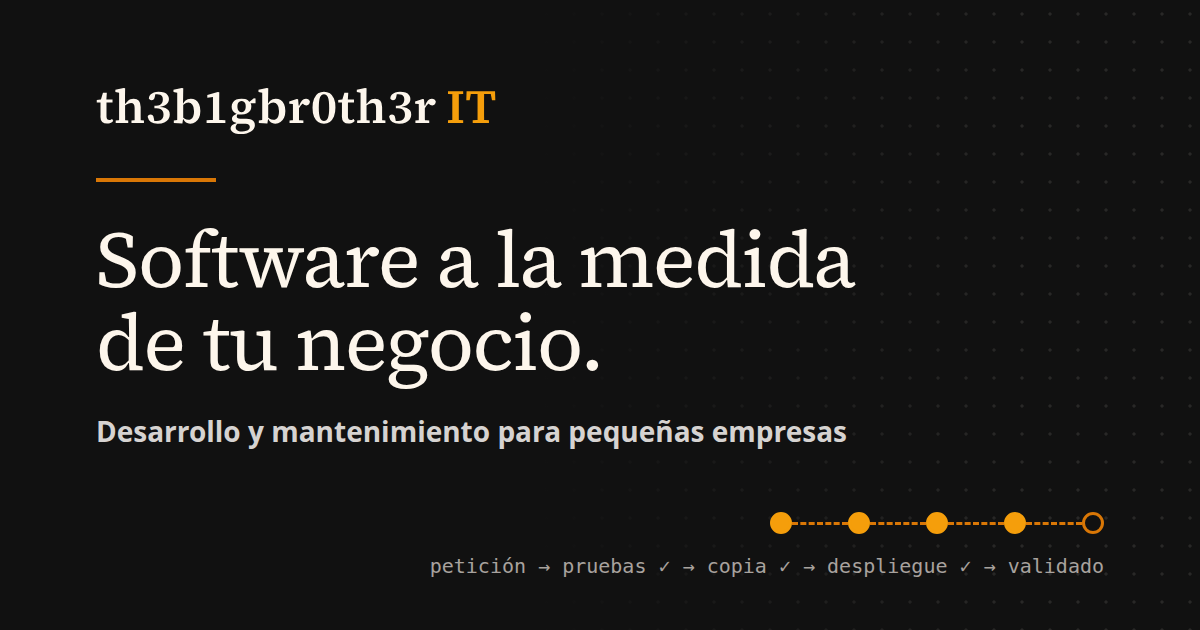
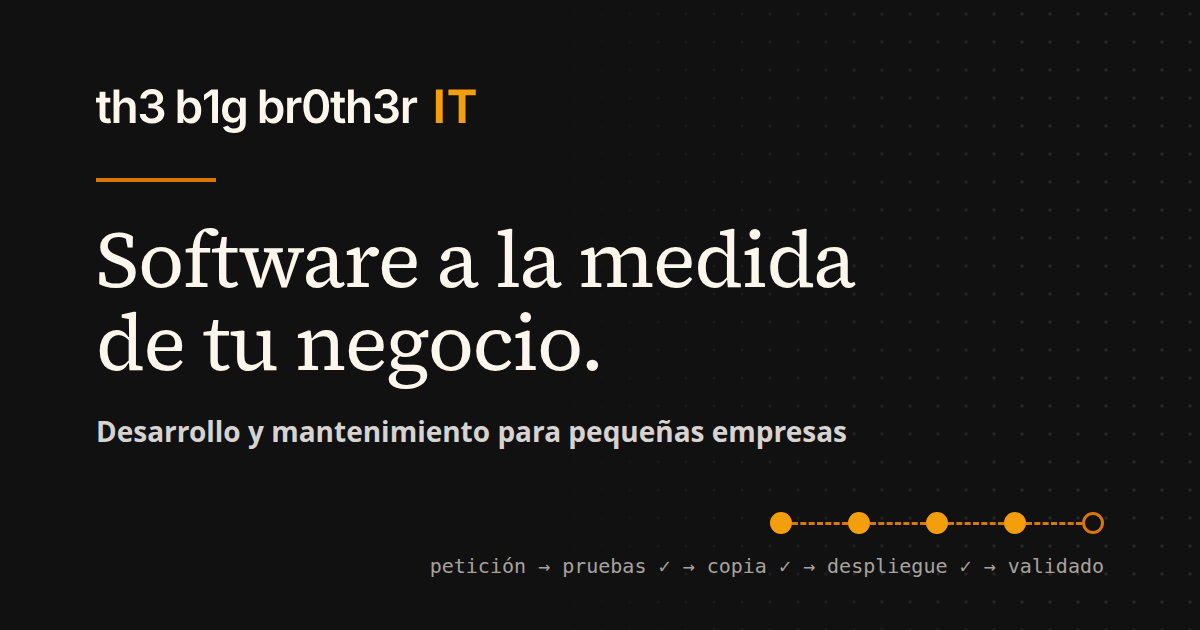
feat(web): wordmark Inter y tipografia (WEB-015a, opcion B de mkt)

Changed region(s): [[0.0617, 0.1206, 0.4317, 0.2111]]

diff --git a/logotipo.py b/logotipo.py
@@ -1,28 +1,26 @@
 """Logotipo «th3b1gbr0th3r IT» en trazos SVG (idéntico en todos los sistemas, sin depender de fuentes instaladas).
 
-Los trazos se generaron una vez con fontTools a partir de Source Serif 4 Semibold (SIL Open Font License 1.1,
-Adobe), que tiene cifras alineadas: el 3, el 1 y el 0 miden lo mismo que las mayúsculas.
-construir_web.py solo importa TRAZOS, ANCHO y ALTO (biblioteca estándar).
-
-Regenerar (solo si cambia el texto; necesita fontTools y brotli, fuera del pipeline):
-    npm pack @fontsource/source-serif-4   # en una carpeta temporal
-    python3 logotipo.py <ruta>/files/source-serif-4-latin-600-normal.woff2 > logotipo_nuevo.py
+Propuesta mkt 2026-11-08 (wordmark B): Inter 600 + «IT» Inter 700, ambas SIL Open Font License 1.1 (Rasmus Andersson / Inter).
+Trazos generados con opentype.js a partir de @fontsource/inter (herramientas/gen_wordmarks.js en docs/marca/propuestas/2026-11-08-wordmark).
+Altura de mayúscula = 1000 unidades; tracking -0,03 em; separación óptica entre «th3», «b1g» y «br0th3r».
+construir_web.py solo importa TRAZOS, ACENTO_TRAZOS, X, Y, ANCHO, ALTO y MONO_TRANSFORM (biblioteca estándar).
 """
 
 TEXTO, ACENTO = "th3b1gbr0th3r", "IT"
 
 # --- generado: no editar a mano ---
-TRAZOS = 'M158 303V238H345V303ZM230 742Q168 742 130 710Q93 677 93 605Q93 584 94 564Q94 543 94 519V303H16V248L139 233L95 266L145 97H226L215 267L219 277V595Q219 633 235 650Q251 666 279 666Q296 666 310 661Q325 656 337 648L361 689Q350 702 332 714Q314 727 288 734Q263 742 230 742ZM411 730V677L518 667H570L673 677V730ZM481 730Q481 700 482 663Q482 626 482 587Q482 548 482 515V98L404 83V38L576 1L608 6L606 138L605 342L607 349V515Q607 548 608 587Q608 626 608 663Q608 700 609 730ZM740 730V677L843 667H895L1001 677V730ZM805 730Q805 700 806 663Q806 626 806 588Q806 549 806 515V415Q806 360 788 338Q771 315 731 315Q708 315 684 323Q661 331 637 346Q613 360 588 382L581 329H615Q635 298 660 274Q686 249 717 236Q748 222 786 222Q857 222 894 266Q932 309 932 397V515Q932 549 932 588Q933 626 933 663Q933 700 934 730ZM1288 744Q1199 744 1145 707Q1091 670 1078 599Q1085 578 1100 566Q1115 553 1137 553Q1165 553 1182 570Q1199 587 1207 629L1222 715L1174 679Q1194 685 1216 688Q1238 691 1264 691Q1313 691 1345 675Q1377 659 1393 628Q1409 597 1409 554Q1409 513 1393 484Q1377 456 1344 440Q1311 425 1261 425H1219V368H1254Q1301 368 1332 354Q1364 339 1380 310Q1395 282 1395 242Q1395 204 1382 179Q1368 154 1341 141Q1314 128 1274 128Q1250 128 1230 131Q1210 134 1188 139L1243 106L1227 186Q1219 222 1202 238Q1186 254 1158 254Q1135 254 1122 242Q1108 231 1102 213Q1110 168 1138 138Q1165 107 1208 92Q1250 76 1304 76Q1373 76 1422 96Q1470 115 1496 150Q1523 185 1523 232Q1523 275 1500 310Q1477 345 1434 367Q1392 389 1331 395Q1401 399 1448 418Q1494 438 1517 472Q1540 507 1540 558Q1540 610 1511 652Q1482 694 1426 719Q1370 744 1288 744ZM1624 730V680L1694 666Q1695 641 1695 615Q1695 589 1695 564Q1695 538 1695 515V98L1617 83V38L1789 1L1821 6L1819 138L1816 323L1820 330V639L1818 640L1803 739ZM1971 744Q1933 744 1905 732Q1877 720 1856 697Q1835 674 1817 642H1779L1783 575Q1819 620 1852 642Q1885 665 1925 665Q1960 665 1987 646Q2014 627 2030 587Q2046 547 2046 485Q2046 391 2012 348Q1979 304 1927 304Q1901 304 1878 314Q1854 325 1830 345Q1807 365 1782 394L1777 323H1820Q1840 291 1862 268Q1885 246 1914 234Q1942 222 1979 222Q2035 222 2080 252Q2126 281 2152 339Q2178 397 2178 480Q2178 562 2150 622Q2123 681 2076 712Q2029 744 1971 744ZM2308 730V675L2459 662H2551L2700 675V730ZM2440 730Q2440 687 2440 644Q2441 602 2441 559Q2441 516 2441 474V187L2323 202V144L2541 85L2573 90L2571 301V474Q2571 516 2572 559Q2572 602 2572 644Q2572 687 2573 730ZM3029 963Q2956 963 2907 948Q2858 932 2834 905Q2809 878 2809 843Q2809 814 2825 792Q2841 770 2874 754Q2906 739 2956 728L2964 735Q2949 746 2938 760Q2927 774 2921 790Q2915 805 2915 824Q2915 848 2929 867Q2943 886 2972 896Q3001 907 3048 907Q3101 907 3137 894Q3173 882 3192 861Q3210 840 3210 814Q3210 784 3189 766Q3168 747 3122 747H2993Q2974 747 2958 746Q2941 746 2926 744V723Q2885 716 2861 698Q2837 679 2837 643Q2837 609 2861 586Q2885 562 2929 543V517L2979 525Q2958 544 2948 558Q2938 573 2938 593Q2938 616 2954 628Q2971 641 3009 641H3134Q3197 641 3238 658Q3278 676 3297 706Q3316 737 3316 777Q3316 816 3294 850Q3273 884 3234 910Q3196 935 3144 949Q3091 963 3029 963ZM3037 555Q2974 555 2928 535Q2882 515 2856 478Q2831 441 2831 389Q2831 339 2856 301Q2882 263 2928 242Q2974 222 3036 222Q3080 222 3113 232Q3146 241 3169 258Q3192 276 3204 298L3215 299Q3228 316 3235 338Q3242 360 3242 387Q3242 438 3217 476Q3192 513 3146 534Q3101 555 3037 555ZM3037 504Q3065 504 3085 490Q3105 476 3115 450Q3125 423 3125 387Q3125 351 3115 325Q3105 299 3086 286Q3066 272 3038 272Q3011 272 2991 286Q2971 300 2961 326Q2951 352 2951 388Q2951 424 2961 450Q2971 476 2990 490Q3009 504 3037 504ZM3177 319V287H3203L3295 216L3330 221V319ZM3398 730V680L3468 666Q3469 641 3469 615Q3469 589 3469 564Q3469 538 3469 515V98L3391 83V38L3563 1L3595 6L3593 138L3590 323L3594 330V639L3592 640L3577 739ZM3745 744Q3707 744 3679 732Q3651 720 3630 697Q3609 674 3591 642H3553L3557 575Q3593 620 3626 642Q3659 665 3699 665Q3734 665 3761 646Q3788 627 3804 587Q3820 547 3820 485Q3820 391 3786 348Q3753 304 3701 304Q3675 304 3652 314Q3628 325 3604 345Q3581 365 3556 394L3551 323H3594Q3614 291 3636 268Q3659 246 3688 234Q3716 222 3753 222Q3809 222 3854 252Q3900 281 3926 339Q3952 397 3952 480Q3952 562 3924 622Q3897 681 3850 712Q3803 744 3745 744ZM4039 730V677L4147 667H4207L4328 677V730ZM4109 730Q4109 700 4110 663Q4110 626 4110 587Q4110 548 4110 515V461Q4110 436 4110 416Q4110 395 4110 376Q4109 356 4109 336L4033 331V283L4188 228L4218 233L4229 366L4236 367V515Q4236 548 4236 587Q4236 626 4236 663Q4237 700 4237 730ZM4224 451 4212 370H4241Q4256 323 4278 290Q4299 258 4325 241Q4351 224 4383 224Q4415 224 4436 241Q4458 258 4465 284Q4463 318 4444 341Q4426 364 4393 364Q4370 364 4352 354Q4335 344 4321 327L4299 304L4350 305Q4305 326 4274 364Q4242 403 4224 451ZM4758 744Q4691 744 4636 708Q4582 673 4550 600Q4519 526 4519 412Q4519 297 4550 223Q4582 149 4636 112Q4691 76 4758 76Q4826 76 4880 112Q4934 147 4966 220Q4997 293 4997 408Q4997 522 4966 596Q4934 671 4880 708Q4826 744 4758 744ZM4758 689Q4785 689 4806 674Q4826 659 4840 626Q4853 594 4860 540Q4866 487 4866 410Q4866 333 4860 280Q4853 226 4840 193Q4826 160 4806 146Q4785 131 4758 131Q4731 131 4710 146Q4690 160 4676 193Q4663 226 4656 280Q4650 333 4650 410Q4650 487 4656 540Q4663 594 4676 626Q4690 659 4710 674Q4731 689 4758 689ZM5197 303V238H5384V303ZM5269 742Q5207 742 5170 710Q5132 677 5132 605Q5132 584 5132 564Q5133 543 5133 519V303H5055V248L5178 233L5134 266L5184 97H5265L5254 267L5258 277V595Q5258 633 5274 650Q5290 666 5318 666Q5335 666 5350 661Q5364 656 5376 648L5400 689Q5389 702 5371 714Q5353 727 5328 734Q5302 742 5269 742ZM5450 730V677L5557 667H5609L5712 677V730ZM5520 730Q5520 700 5520 663Q5521 626 5521 587Q5521 548 5521 515V98L5443 83V38L5615 1L5647 6L5645 138L5644 342L5646 349V515Q5646 548 5646 587Q5647 626 5647 663Q5647 700 5648 730ZM5779 730V677L5882 667H5934L6040 677V730ZM5844 730Q5844 700 5844 663Q5845 626 5845 588Q5845 549 5845 515V415Q5845 360 5828 338Q5810 315 5770 315Q5747 315 5724 323Q5700 331 5676 346Q5652 360 5627 382L5620 329H5654Q5674 298 5700 274Q5725 249 5756 236Q5787 222 5825 222Q5896 222 5934 266Q5971 309 5971 397V515Q5971 549 5972 588Q5972 626 5972 663Q5972 700 5973 730ZM6327 744Q6238 744 6184 707Q6130 670 6117 599Q6124 578 6139 566Q6154 553 6176 553Q6204 553 6221 570Q6238 587 6246 629L6261 715L6213 679Q6233 685 6255 688Q6277 691 6303 691Q6352 691 6384 675Q6416 659 6432 628Q6448 597 6448 554Q6448 513 6432 484Q6416 456 6383 440Q6350 425 6300 425H6258V368H6293Q6340 368 6372 354Q6403 339 6418 310Q6434 282 6434 242Q6434 204 6420 179Q6407 154 6380 141Q6353 128 6313 128Q6289 128 6269 131Q6249 134 6227 139L6282 106L6266 186Q6258 222 6242 238Q6225 254 6197 254Q6174 254 6160 242Q6147 231 6141 213Q6149 168 6176 138Q6204 107 6246 92Q6289 76 6343 76Q6412 76 6460 96Q6509 115 6536 150Q6562 185 6562 232Q6562 275 6539 310Q6516 345 6474 367Q6431 389 6370 395Q6440 399 6486 418Q6533 438 6556 472Q6579 507 6579 558Q6579 610 6550 652Q6521 694 6465 719Q6409 744 6327 744ZM6666 730V677L6774 667H6834L6955 677V730ZM6736 730Q6736 700 6736 663Q6737 626 6737 587Q6737 548 6737 515V461Q6737 436 6737 416Q6737 395 6736 376Q6736 356 6736 336L6660 331V283L6815 228L6845 233L6856 366L6863 367V515Q6863 548 6863 587Q6863 626 6864 663Q6864 700 6864 730ZM6851 451 6839 370H6868Q6883 323 6904 290Q6926 258 6952 241Q6978 224 7010 224Q7042 224 7064 241Q7085 258 7092 284Q7090 318 7072 341Q7053 364 7020 364Q6997 364 6980 354Q6962 344 6948 327L6926 304L6977 305Q6932 326 6900 364Q6869 403 6851 451Z'
-ACENTO_TRAZOS = 'M7346 730V672L7481 664H7528L7663 672V730ZM7435 730Q7436 679 7436 628Q7436 578 7436 526Q7436 475 7436 424V372Q7436 321 7436 270Q7436 219 7436 168Q7436 117 7435 66H7574Q7573 116 7572 167Q7572 218 7572 269Q7572 320 7572 372V423Q7572 474 7572 526Q7572 577 7572 628Q7573 679 7574 730ZM7346 124V66H7663V124L7528 132H7481ZM7862 730V672L8005 664H8055L8201 672V730ZM7962 730Q7963 679 7963 628Q7963 578 7963 526Q7963 475 7963 424V372Q7963 321 7963 270Q7963 219 7963 168Q7963 117 7962 66H8101Q8100 116 8100 167Q8099 218 8099 269Q8099 320 8099 372V423Q8099 474 8099 526Q8099 577 8100 628Q8100 679 8101 730ZM7728 254 7734 66H8328L8334 254H8264L8230 79L8283 126H7779L7832 79L7798 254Z'
-ANCHO = 8364
-ALTO = 960
-BASE = 730
+TRAZOS = 'M295 370L440 370L440 507L295 507L295 909Q295 950 312 969Q330 988 369 988L369 988Q381 988 401 985Q421 982 433 979L433 979L460 1114Q432 1123 401 1126Q371 1130 344 1130L344 1130Q236 1130 178 1076Q120 1023 120 923L120 923L120 507L13 507L13 370L120 370L120 191L295 191L295 370ZM711 680L711 680L711 1120L537 1120L537 120L708 120L708 508Q737 445 783 409L783 409Q844 360 936 360L936 360Q1013 360 1071 393Q1129 426 1161 489Q1193 552 1193 643L1193 643L1193 1120L1018 1120L1018 670Q1018 594 979 552Q940 509 872 509L872 509Q825 509 789 529Q753 549 732 587Q711 626 711 680ZM1681 1133L1681 1133Q1576 1133 1494 1097Q1413 1061 1366 997Q1319 933 1316 849L1316 849L1497 849Q1499 890 1524 920Q1548 950 1589 967Q1630 983 1681 983L1681 983Q1735 983 1776 964Q1818 946 1841 912Q1865 878 1865 833L1865 833Q1865 788 1841 753Q1817 718 1772 698Q1727 678 1663 678L1663 678L1575 678L1575 540L1663 540Q1716 540 1755 522Q1795 503 1817 470Q1839 437 1839 394L1839 394Q1839 352 1820 320Q1801 288 1766 271Q1730 253 1683 253L1683 253Q1637 253 1598 269Q1559 286 1535 316Q1511 346 1509 389L1509 389L1337 389Q1338 305 1385 242Q1432 178 1510 142Q1588 107 1685 107L1685 107Q1785 107 1858 144Q1932 182 1973 244Q2014 307 2014 383L2014 383Q2014 468 1964 525Q1914 582 1833 600L1833 600L1833 608Q1903 617 1951 649Q1999 681 2025 731Q2050 780 2050 843L2050 843Q2050 927 2002 992Q1954 1058 1872 1096Q1789 1133 1681 1133ZM2841 1133L2841 1133Q2777 1133 2734 1112Q2691 1090 2666 1059Q2640 1028 2627 1001L2627 1001L2616 1001L2616 1120L2445 1120L2445 120L2620 120L2620 494L2627 494Q2640 467 2665 436Q2690 405 2733 383Q2775 360 2842 360L2842 360Q2929 360 2999 405Q3069 449 3110 535Q3151 621 3151 746L3151 746Q3151 870 3111 956Q3071 1043 3001 1088Q2930 1133 2841 1133ZM2794 990L2794 990Q2853 990 2892 958Q2932 926 2952 871Q2972 815 2972 746L2972 746Q2972 676 2952 621Q2932 566 2893 535Q2853 504 2794 504L2794 504Q2736 504 2697 534Q2657 564 2637 618Q2616 672 2616 746L2616 746Q2616 819 2637 874Q2657 929 2697 959Q2737 990 2794 990ZM3452 120L3650 120L3650 1120L3472 1120L3472 280L3466 280L3232 448L3232 277L3452 120ZM4125 1417L4125 1417Q4035 1417 3968 1394Q3902 1371 3859 1332Q3816 1292 3798 1243L3798 1243L3945 1190Q3957 1211 3978 1233Q4000 1255 4035 1269Q4070 1284 4124 1284L4124 1284Q4206 1284 4255 1246Q4304 1208 4304 1127L4304 1127L4304 986L4289 986Q4276 1013 4251 1041Q4226 1070 4184 1089Q4143 1109 4077 1109L4077 1109Q3992 1109 3921 1068Q3851 1027 3810 946Q3769 865 3769 743L3769 743Q3769 619 3810 534Q3852 449 3922 405Q3992 360 4079 360L4079 360Q4145 360 4188 382Q4231 405 4257 436Q4282 467 4296 494L4296 494L4305 494L4305 370L4476 370L4476 1122Q4476 1222 4430 1287Q4385 1353 4306 1385Q4226 1417 4125 1417ZM4126 971L4126 971Q4183 971 4223 944Q4263 917 4283 865Q4304 813 4304 741L4304 741Q4304 670 4284 617Q4263 564 4224 534Q4184 504 4126 504L4126 504Q4067 504 4027 535Q3988 566 3967 620Q3947 673 3947 741L3947 741Q3947 811 3968 862Q3988 914 4028 942Q4068 971 4126 971ZM5291 1133L5291 1133Q5227 1133 5184 1112Q5141 1090 5116 1059Q5090 1028 5077 1001L5077 1001L5065 1001L5065 1120L4895 1120L4895 120L5070 120L5070 494L5077 494Q5090 467 5115 436Q5140 405 5183 383Q5225 360 5292 360L5292 360Q5379 360 5449 405Q5518 449 5560 535Q5601 621 5601 746L5601 746Q5601 870 5561 956Q5521 1043 5450 1088Q5380 1133 5291 1133ZM5244 990L5244 990Q5302 990 5342 958Q5382 926 5402 871Q5422 815 5422 746L5422 746Q5422 676 5402 621Q5382 566 5343 535Q5303 504 5244 504L5244 504Q5186 504 5147 534Q5107 564 5087 618Q5066 672 5066 746L5066 746Q5066 819 5087 874Q5107 929 5147 959Q5187 990 5244 990ZM5886 1120L5711 1120L5711 370L5881 370L5881 495L5889 495Q5909 430 5959 395Q6009 360 6074 360L6074 360Q6089 360 6107 361Q6125 362 6138 364L6138 364L6138 525Q6127 521 6103 519Q6079 516 6055 516L6055 516Q6007 516 5968 537Q5930 558 5908 594Q5886 631 5886 678L5886 678L5886 1120ZM6576 1133L6576 1133Q6455 1133 6370 1073Q6284 1012 6238 898Q6192 783 6192 621L6192 621Q6192 458 6238 343Q6284 229 6370 168Q6455 107 6576 107L6576 107Q6698 107 6784 168Q6870 229 6915 343Q6961 458 6961 621L6961 621Q6961 783 6916 898Q6870 1012 6784 1073Q6698 1133 6576 1133ZM6577 983L6577 983Q6642 983 6687 940Q6733 898 6756 817Q6780 736 6780 621L6780 621Q6780 505 6756 423Q6733 342 6687 299Q6642 256 6577 256L6577 256Q6511 256 6466 299Q6421 342 6397 423Q6373 505 6373 621L6373 621Q6373 736 6396 817Q6420 898 6466 940Q6511 983 6577 983ZM7283 370L7428 370L7428 507L7283 507L7283 909Q7283 950 7301 969Q7318 988 7358 988L7358 988Q7370 988 7390 985Q7410 982 7422 979L7422 979L7449 1114Q7420 1123 7390 1126Q7360 1130 7332 1130L7332 1130Q7224 1130 7167 1076Q7109 1023 7109 923L7109 923L7109 507L7002 507L7002 370L7109 370L7109 191L7283 191L7283 370ZM7700 680L7700 680L7700 1120L7525 1120L7525 120L7697 120L7697 508Q7726 445 7772 409L7772 409Q7833 360 7925 360L7925 360Q8002 360 8060 393Q8118 426 8150 489Q8182 552 8182 643L8182 643L8182 1120L8007 1120L8007 670Q8007 594 7968 552Q7929 509 7860 509L7860 509Q7814 509 7778 529Q7741 549 7721 587Q7700 626 7700 680ZM8670 1133L8670 1133Q8565 1133 8483 1097Q8402 1061 8355 997Q8308 933 8305 849L8305 849L8485 849Q8488 890 8513 920Q8537 950 8578 967Q8619 983 8670 983L8670 983Q8724 983 8765 964Q8806 946 8830 912Q8854 878 8854 833L8854 833Q8854 788 8830 753Q8806 718 8761 698Q8716 678 8652 678L8652 678L8563 678L8563 540L8652 540Q8704 540 8744 522Q8783 503 8806 470Q8828 437 8828 394L8828 394Q8828 352 8809 320Q8790 288 8754 271Q8719 253 8672 253L8672 253Q8626 253 8587 269Q8548 286 8524 316Q8500 346 8498 389L8498 389L8326 389Q8327 305 8374 242Q8420 178 8499 142Q8577 107 8673 107L8673 107Q8773 107 8847 144Q8921 182 8962 244Q9002 307 9002 383L9002 383Q9002 468 8953 525Q8903 582 8822 600L8822 600L8822 608Q8892 617 8940 649Q8988 681 9013 731Q9038 780 9038 843L9038 843Q9038 927 8991 992Q8943 1058 8860 1096Q8777 1133 8670 1133ZM9334 1120L9159 1120L9159 370L9328 370L9328 495L9336 495Q9356 430 9407 395Q9457 360 9521 360L9521 360Q9536 360 9554 361Q9572 362 9585 364L9585 364L9585 525Q9574 521 9550 519Q9526 516 9503 516L9503 516Q9454 516 9416 537Q9377 558 9355 594Q9334 631 9334 678L9334 678L9334 1120Z'
+ACENTO_TRAZOS = 'M10142 120L10347 120L10347 1120L10142 1120L10142 120ZM10822 290L10516 290L10516 120L11332 120L11332 290L11027 290L11027 1120L10822 1120L10822 290Z'
+X, Y, ANCHO, ALTO = 13, 76, 11320, 1371
+MONO_TRANSFORM = "translate(-481.85 24.00) scale(0.05)"  # «IT» centrada en el monograma de 110×110
 # --- fin de lo generado ---
+
+_VB = f"{X} {Y} {ANCHO} {ALTO}"
 
 
 def svg(clase="logotipo", titulo="th3b1gbr0th3r IT"):
     """SVG inline del logotipo: texto en currentColor y «IT» en tostado. Alto controlado por CSS."""
-    return (f'<svg class="{clase}" viewBox="0 0 {ANCHO} {ALTO}" role="img" aria-label="{titulo}" focusable="false">'
+    return (f'<svg class="{clase}" viewBox="{_VB}" role="img" aria-label="{titulo}" focusable="false">'
             f'<path d="{TRAZOS}" fill="currentColor"/><path class="logo-it" d="{ACENTO_TRAZOS}" fill="#b45309"/></svg>')
 
 
@@ -33,34 +31,4 @@ def definicion(id_="logo-trazos"):
 
 
 def uso(clase="logotipo", id_="logo-trazos"):
-    return f'<svg class="{clase}" viewBox="0 0 {ANCHO} {ALTO}" aria-hidden="true" focusable="false"><use href="#{id_}"/></svg>'
-
-
-def _generar(ruta_fuente):  # pragma: no cover (herramienta manual)
-    from fontTools.pens.svgPathPen import SVGPathPen
-    from fontTools.pens.transformPen import TransformPen
-    from fontTools.ttLib import TTFont
-
-    f = TTFont(ruta_fuente)
-    gs, cmap, hmtx = f.getGlyphSet(), f.getBestCmap(), f["hmtx"]
-    asc = f["OS/2"].sCapHeight + 60  # margen sobre las astas (t, h, b)
-    desc = 230  # bajada de la g
-    espaciado = 8  # unidades de fuente entre letras
-
-    def trazar(texto, x):
-        pen = SVGPathPen(gs, ntos=lambda v: f"{v:.0f}")
-        for ch in texto:
-            g = cmap[ord(ch)]
-            gs[g].draw(TransformPen(pen, (1, 0, 0, -1, x, asc)))
-            x += hmtx[g][0] + espaciado
-        return pen.getCommands(), x
-
-    trazos, x = trazar(TEXTO, 0)
-    acento, x = trazar(ACENTO, x + 200)  # espacio entre la marca y «IT»
-    print(f"TRAZOS = {trazos!r}\nACENTO_TRAZOS = {acento!r}\nANCHO = {round(x)}\nALTO = {asc + desc}\nBASE = {asc}")
-
-
-if __name__ == "__main__":
-    import sys
-
-    _generar(sys.argv[1])
+    return f'<svg class="{clase}" viewBox="{_VB}" aria-hidden="true" focusable="false"><use href="#{id_}"/></svg>'

diff --git a/construir_web.py b/construir_web.py
@@ -60,7 +60,7 @@ EQUIPO = [
 # Monograma «IT» (favicon y apple-touch-icon): sustituye al antiguo icono de marca.
 MONOGRAMA = ('<svg class="icono-marca" viewBox="0 0 110 110" aria-hidden="true" focusable="false">'
              '<rect width="110" height="110" rx="24" fill="#111111"/>'
-             f'<path transform="translate(-415.40 31.12) scale(0.06)" d="{logotipo.ACENTO_TRAZOS}" fill="#f59e0b"/></svg>')
+             f'<path transform="{logotipo.MONO_TRANSFORM}" d="{logotipo.ACENTO_TRAZOS}" fill="#f59e0b"/></svg>')
 LOGOTIPO = logotipo.svg()
 
 
@@ -330,15 +330,17 @@ unicode-range:U+0000-00FF,U+0131,U+0152-0153,U+02BB-02BC,U+02C6,U+02DA,U+02DC,U+
 --gris1:#f4f1ec;--gris2:#e7e1d6;--gris3:#a8a29e;--texto:#44403c;--apoyo:#57534e;--linea:#e7e1d6;--borde-calido:#ecdcc4;
 --serif:"Source Serif 4",Georgia,"DejaVu Serif","Times New Roman",serif;
 --sans:system-ui,-apple-system,"Segoe UI",Roboto,"DejaVu Sans",Helvetica,Arial,sans-serif;
---ancho:1200px;--gutter:24px;--ritmo:8px;--cab:72px}
+--ancho:1200px;--gutter:24px;--ritmo:8px;--cab:72px;
+--t-h1:clamp(2.6rem,5.4vw,4.5rem);--t-h2:clamp(2rem,4.2vw,3.25rem);--t-h3:1.35rem;
+--s-h1:-.028em;--s-h2:-.022em;--s-h3:-.012em;--s-sobre:.14em}
 *{box-sizing:border-box}
 html{scroll-behavior:smooth;scroll-padding-top:calc(var(--cab) + 16px);background:var(--gris1)}
-body{margin:0;background:var(--blanco);color:var(--negro);font:17px/1.65 var(--sans);-webkit-font-smoothing:antialiased;overflow-x:hidden}
+body{margin:0;background:var(--blanco);color:var(--negro);font:17px/1.6 var(--sans);font-kerning:normal;font-synthesis:none;-webkit-font-smoothing:antialiased;overflow-x:hidden}
 img,svg{max-width:100%}
 a{color:inherit}
-h1,h2,h3{font-family:var(--serif);font-weight:400;line-height:1.12;margin:0;letter-spacing:-.01em;text-wrap:balance;font-variant-numeric:lining-nums}
-h2{font-size:clamp(2rem,4vw,3rem)}
-h3{font-size:1.35rem}
+h1,h2,h3{font-family:var(--serif);font-weight:400;line-height:1.1;margin:0;letter-spacing:var(--s-h2);text-wrap:balance;font-variant-numeric:lining-nums}
+h2{font-size:var(--t-h2)}
+h3{font-size:var(--t-h3);letter-spacing:var(--s-h3)}
 p{margin:0;text-wrap:pretty}
 .mono{font-family:var(--mono);font-size:.85em;letter-spacing:0}
 em{font-style:italic}
@@ -355,7 +357,7 @@ em{font-style:italic}
 .reticula{display:grid;grid-template-columns:repeat(12,minmax(0,1fr));column-gap:var(--gutter)}
 .bloque{padding:calc(var(--ritmo)*13) 0}
 .alterno{background:var(--crema)}
-.sobre{display:block;font:700 .78rem/1.2 var(--sans);letter-spacing:.16em;text-transform:uppercase;color:var(--tostado);margin-bottom:calc(var(--ritmo)*2)}
+.sobre{display:block;font:600 .76rem/1.2 var(--sans);letter-spacing:var(--s-sobre);text-transform:uppercase;color:var(--tostado);margin-bottom:calc(var(--ritmo)*2)}
 .titular{max-width:900px;margin-bottom:calc(var(--ritmo)*6)}
 .titular p{margin-top:calc(var(--ritmo)*2.5);font-size:1.15rem;color:var(--apoyo);max-width:60ch}
 .titular .mas{margin-top:calc(var(--ritmo)*3)}
@@ -376,7 +378,7 @@ font-weight:700;text-decoration:none;border:2px solid var(--negro);transition:ba
 .cab.scroll{border-color:var(--linea);box-shadow:0 8px 24px -20px rgba(17,17,17,.4)}
 .cab .contenedor{display:flex;align-items:center;justify-content:space-between;gap:24px;height:var(--cab)}
 .menu ul{display:flex;align-items:center;gap:32px;list-style:none;margin:0;padding:0}
-.menu a{text-decoration:none;font-weight:600;font-size:.95rem;color:var(--texto)}
+.menu a{text-decoration:none;font-weight:500;font-size:.95rem;letter-spacing:-.005em;color:var(--texto)}
 .menu a:hover{color:var(--negro);text-decoration:underline;text-decoration-color:var(--ambar);text-underline-offset:6px;text-decoration-thickness:2px}
 .menu .solo-movil{display:none}
 .cab .btn{padding:10px 20px;font-size:.92rem}
@@ -397,7 +399,7 @@ font:600 .92rem var(--sans);color:var(--negro);cursor:pointer}
 .hero::before{content:"";position:absolute;inset:0;pointer-events:none;background-image:radial-gradient(circle,rgba(253,246,236,.09) 1px,transparent 1.6px);background-size:24px 24px;
 -webkit-mask-image:linear-gradient(90deg,transparent 0,transparent 30%,#000 75%);mask-image:linear-gradient(90deg,transparent 0,transparent 30%,#000 75%)}
 .hero .contenedor{position:relative;z-index:1}
-.hero h1{font-size:clamp(2.5rem,4.8vw,4rem);line-height:1.06;letter-spacing:-.02em;color:var(--blanco);max-width:12em;text-wrap:balance}
+.hero h1{font-size:var(--t-h1);line-height:1.04;letter-spacing:var(--s-h1);color:var(--blanco);max-width:12em;text-wrap:balance}
 .hero .apoyo{margin-top:calc(var(--ritmo)*3);font-size:clamp(1.1rem,1.6vw,1.3rem);color:#d6d3d1;max-width:30em}
 .acciones{display:flex;flex-wrap:wrap;align-items:center;gap:16px 28px;margin-top:calc(var(--ritmo)*5)}
 .hero-visual{grid-column:7/span 6}
@@ -1144,7 +1146,7 @@ AVISO = legal("Aviso legal", f"""
 <h2>Condiciones de uso</h2>
 <p>Te comprometes a usar la web y sus contenidos de forma lícita, sin dañar su funcionamiento ni los derechos de terceros.</p>
 <h2>Propiedad intelectual e industrial</h2>
-<p>Los textos, diseños, ilustraciones, logotipos y el código de esta web pertenecen a su titular o se usan con autorización o con licencia. Las tipografías se usan bajo su licencia libre (SIL Open Font License): la tipografía Source Serif 4, de Adobe, se distribuye con el texto de esa licencia en <a href="fuentes/OFL.txt">fuentes/OFL.txt</a>. No se permite reproducir, distribuir, comunicar públicamente ni transformar los contenidos sin permiso previo y por escrito, salvo para uso personal y privado. «th3b1gbr0th3r IT» es un nombre comercial.</p>
+<p>Los textos, diseños, ilustraciones, logotipos y el código de esta web pertenecen a su titular o se usan con autorización o con licencia. Las tipografías se usan bajo su licencia libre (SIL Open Font License): la tipografía Source Serif 4, de Adobe, se distribuye con el texto de esa licencia en <a href="fuentes/OFL.txt">fuentes/OFL.txt</a>. El logotipo está trazado a partir de la tipografía Inter (Rasmus Andersson, también SIL Open Font License) y no incorpora archivos de fuente. No se permite reproducir, distribuir, comunicar públicamente ni transformar los contenidos sin permiso previo y por escrito, salvo para uso personal y privado. «th3b1gbr0th3r IT» es un nombre comercial.</p>
 <h2>Enlaces</h2>
 <p>Si la web enlaza a sitios de terceros, no somos responsables de su contenido. Retiraremos un enlace en cuanto sepamos que lleva a contenido ilícito.</p>
 <h2>Responsabilidad</h2>
